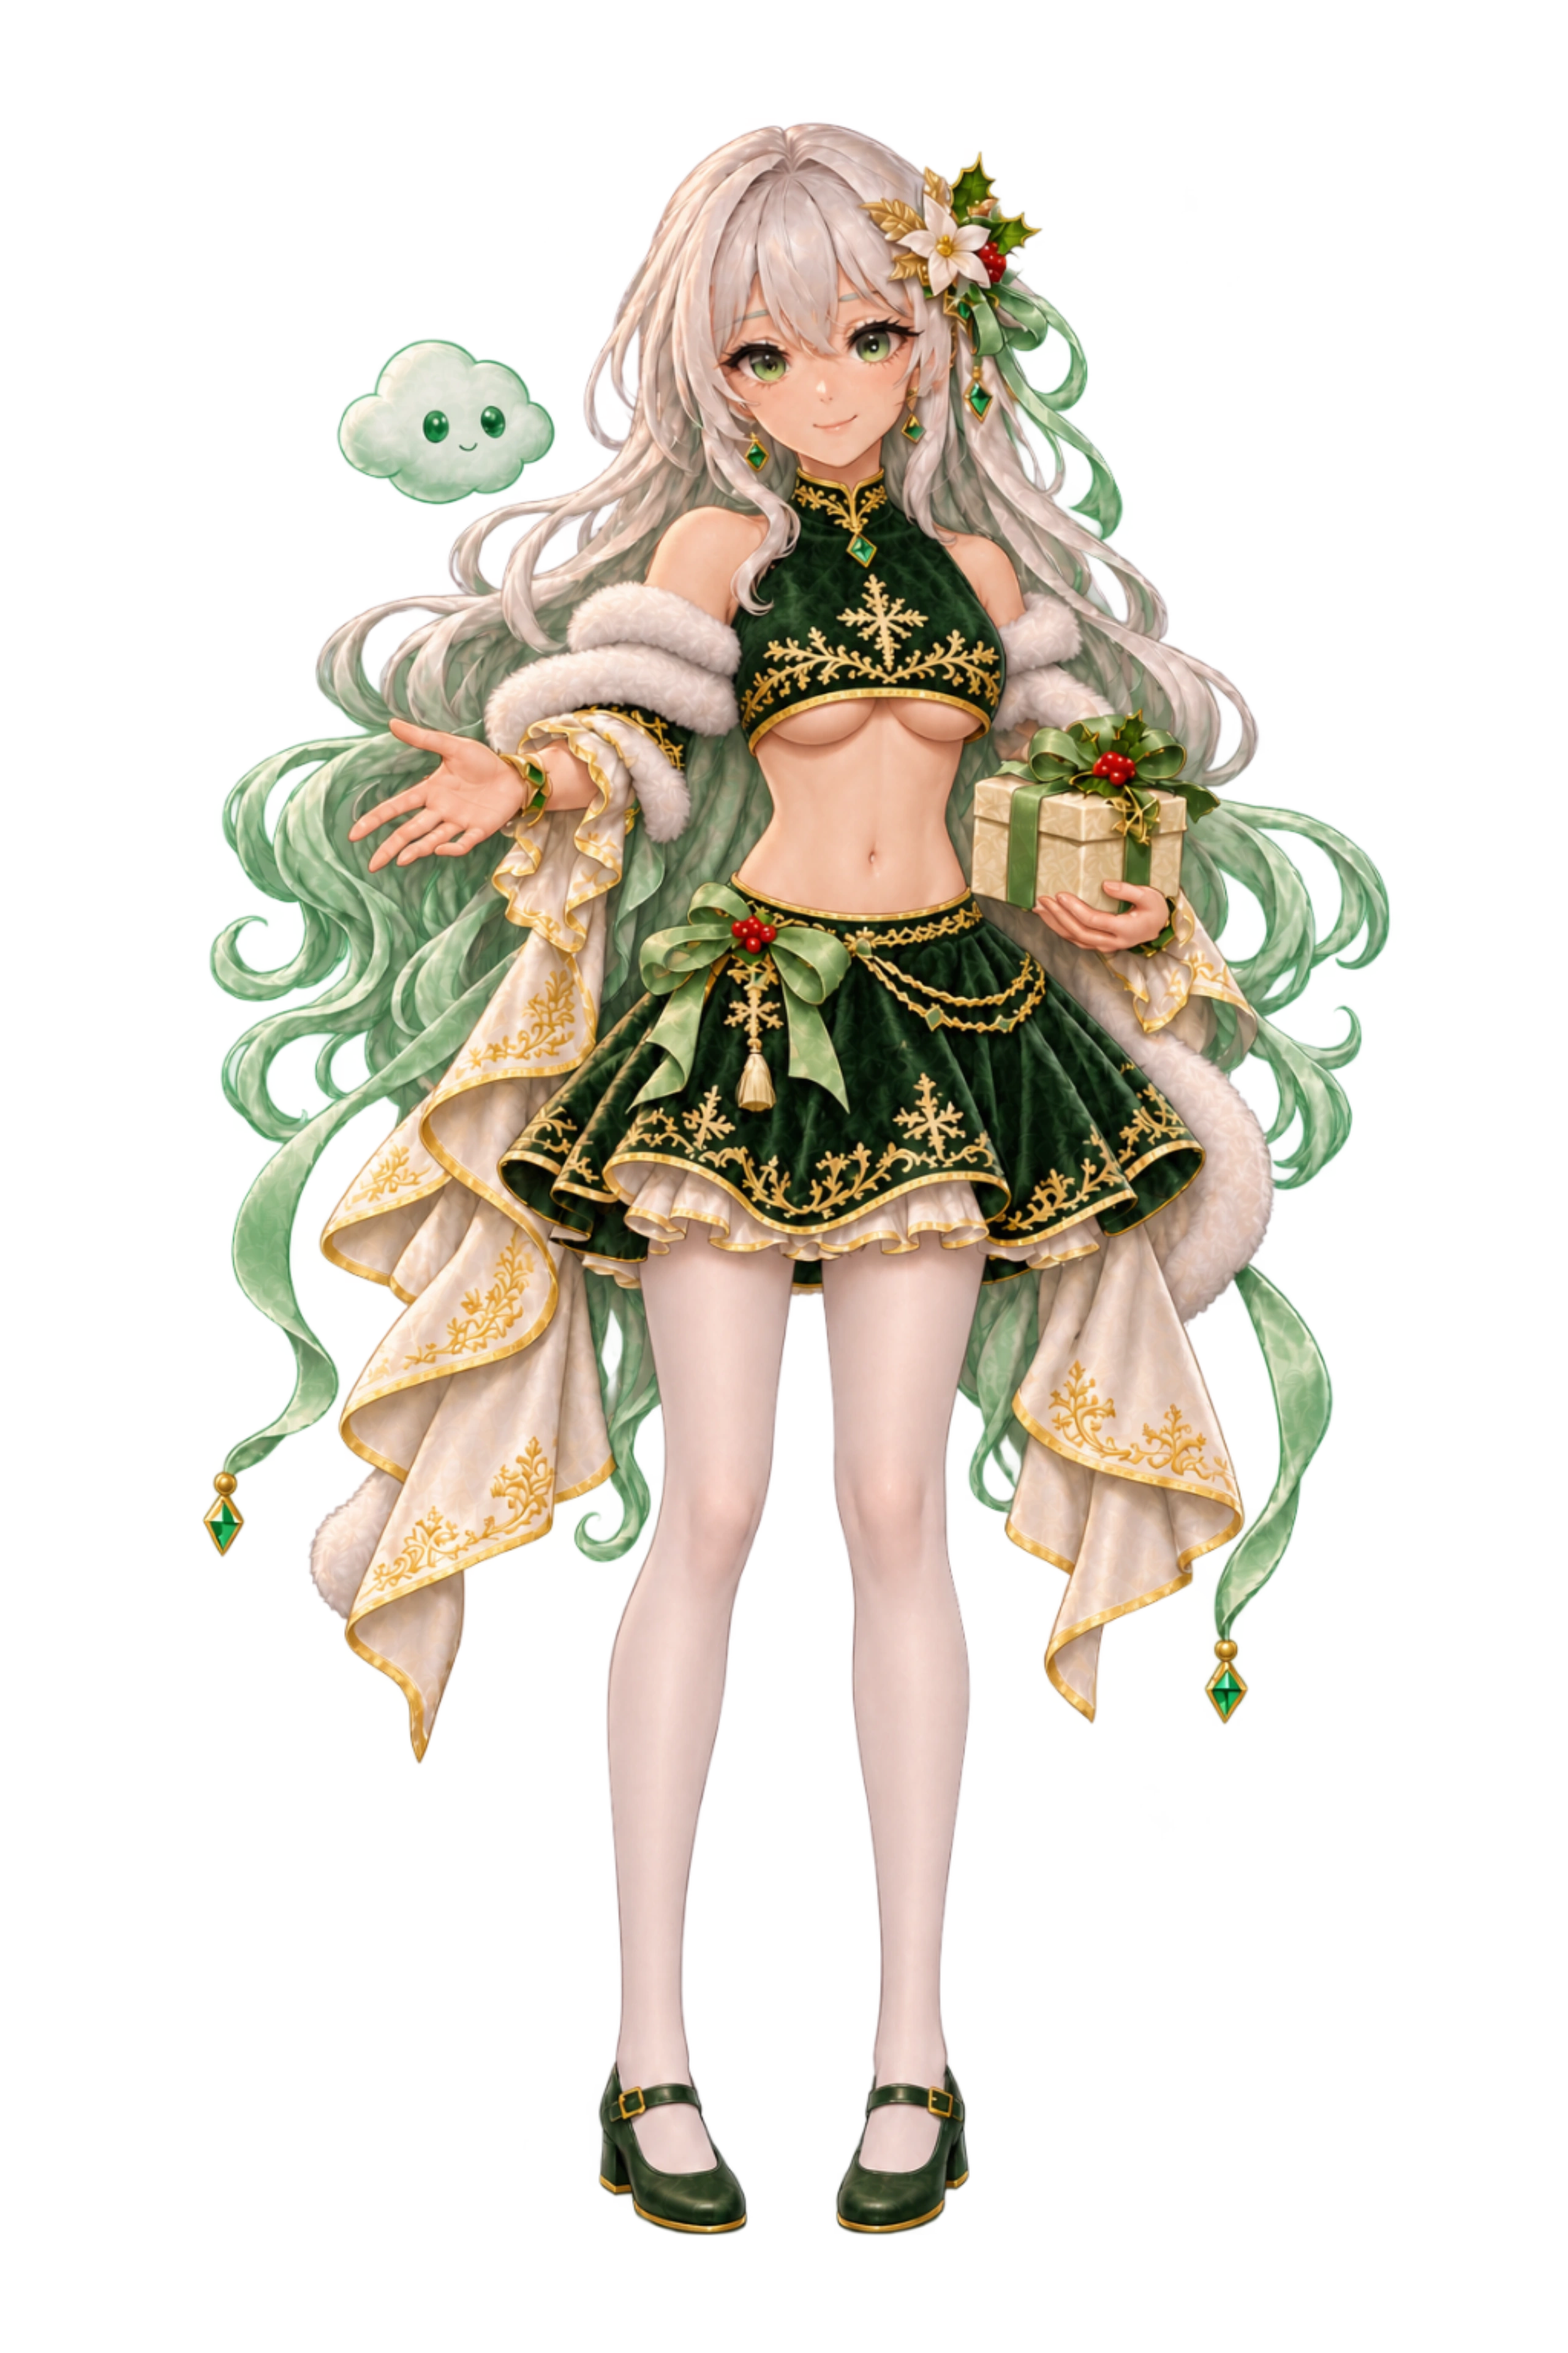
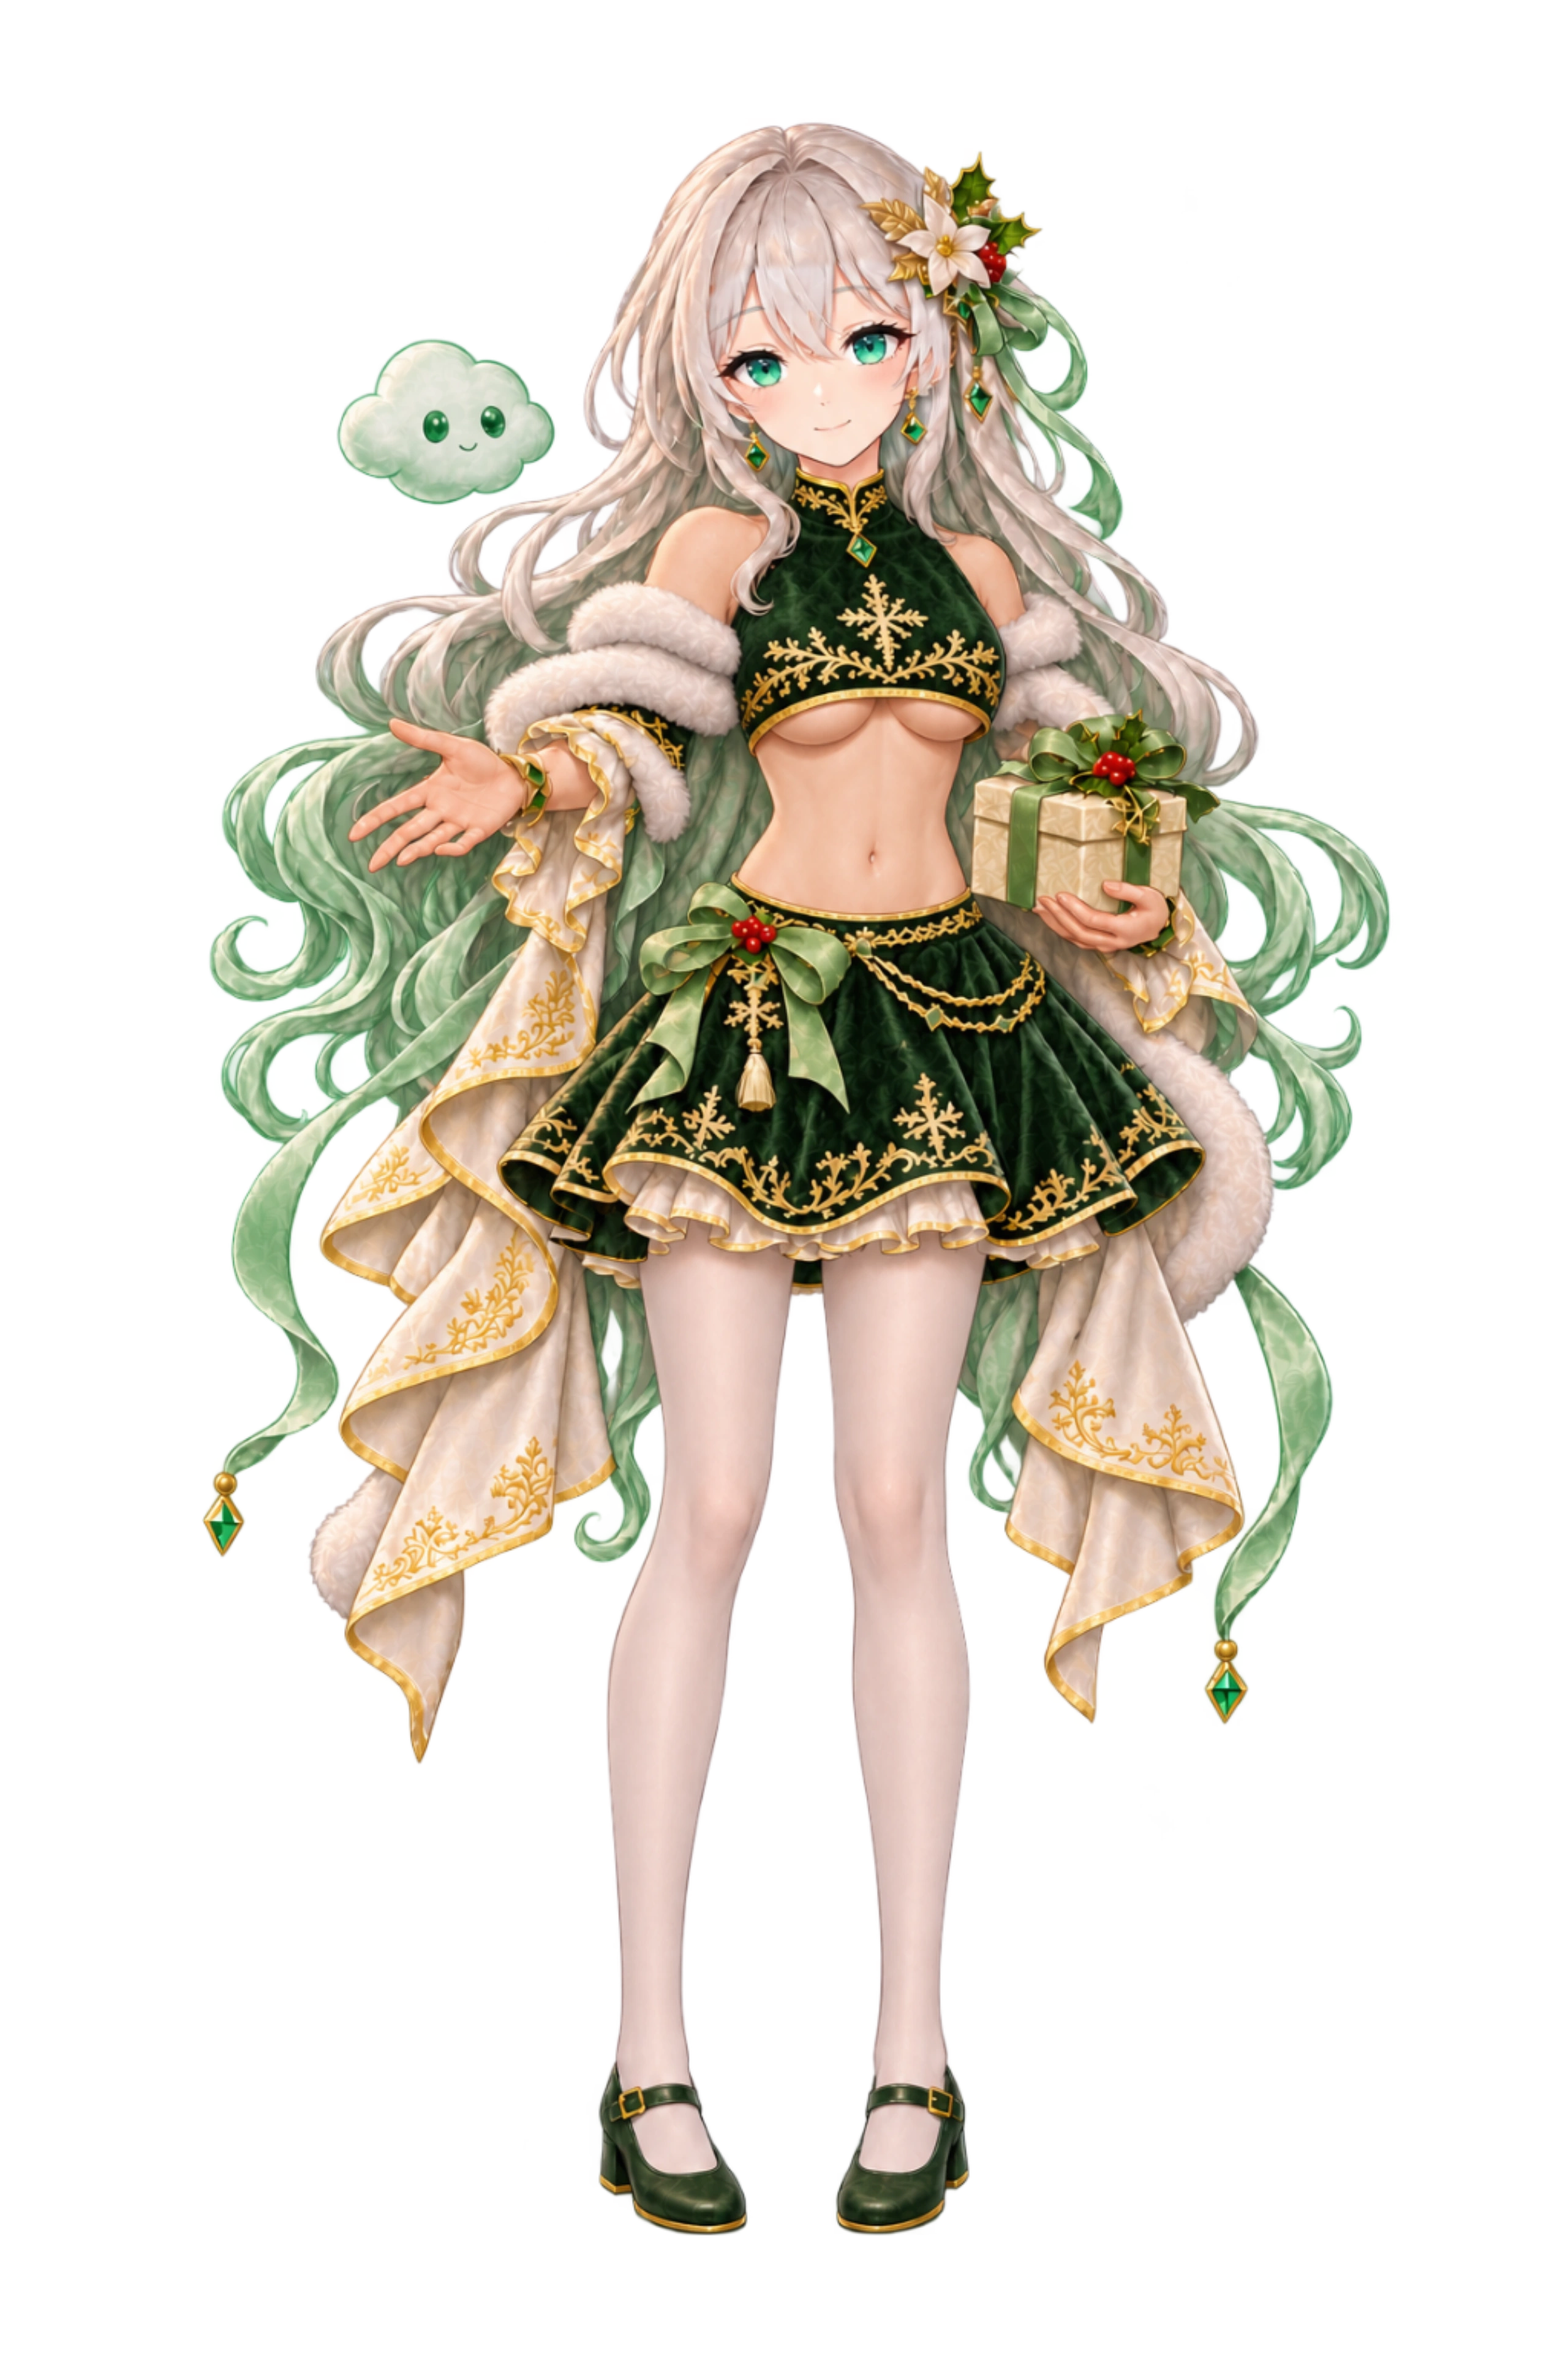
fix: align Christmas ChatGPT face and blinking with her established identity

Changed region(s): [[0.4375, 0.0938, 0.625, 0.2188]]

diff --git a/web/src/user/activities/gacha/christmas/eyelids.ts b/web/src/user/activities/gacha/christmas/eyelids.ts
@@ -55,40 +55,49 @@ function profile(
 export const christmasEyelids: Record<ChristmasCard, EyePair> = {
   't-chatgpt': [
     profile(
-      [462, 158, 524, 204],
+      [460, 161, 520, 203],
       [
-        [462, 177, 185, 179, 182, 186, 189, 0],
-        [469, 175, 191, 177, 185, 187, 191, 1],
-        [474, 169, 199, 171, 183, 184, 193, 1],
-        [479, 166, 201, 169, 179, 181, 194, 1],
-        [484, 162, 202, 164, 175, 182, 194, 1],
-        [489, 161, 202, 163, 174, 183, 193, 1],
-        [494, 161, 201, 163, 173, 182, 192, 1],
-        [499, 160, 200, 162, 173, 181, 190, 1],
-        [504, 162, 197, 164, 175, 180, 189, 1],
-        [509, 164, 194, 166, 179, 178, 187, 1],
-        [514, 167, 190, 169, 180, 179, 185, 1],
-        [519, 173, 187, 175, 180, 180, 183, 0.7],
-        [524, 177, 184, 179, 182, 180, 182, 0],
+        [460, 182, 190, 184, 187, 187, 189, 0],
+        [466, 181, 192, 184, 189, 187, 190, 0.8],
+        [470, 175, 195, 178, 187, 185, 190, 1],
+        [474, 170, 198, 173, 187, 183, 190, 1],
+        [478, 169, 200, 172, 181, 183, 190, 1],
+        [482, 166, 201, 169, 179, 182, 189, 1],
+        [486, 166, 201, 169, 178, 180, 188, 1],
+        [490, 165, 201, 168, 176, 179, 187, 1],
+        [494, 165, 200, 168, 176, 178, 185, 1],
+        [498, 165, 198, 168, 177, 177, 184, 1],
+        [502, 166, 195, 169, 179, 177, 183, 1],
+        [506, 168, 192, 171, 180, 177, 182, 1],
+        [510, 171, 188, 174, 179, 177, 181, 1],
+        [514, 176, 184, 178, 181, 178, 181, 0.7],
+        [520, 178, 183, 179, 181, 179, 181, 0],
       ],
+      false,
+      3,
     ),
     profile(
-      [553, 139, 615, 190],
+      [550, 140, 612, 188],
       [
-        [553, 159, 175, 162, 165, 171, 174, 0],
-        [560, 157, 181, 160, 165, 169, 176, 1],
-        [565, 152, 186, 154, 163, 168, 177, 1],
-        [570, 148, 188, 150, 160, 168, 177, 1],
-        [575, 146, 189, 148, 158, 167, 177, 1],
-        [580, 145, 188, 147, 157, 166, 176, 1],
-        [585, 144, 185, 146, 156, 164, 176, 1],
-        [590, 142, 182, 144, 156, 162, 174, 1],
-        [595, 144, 180, 147, 158, 159, 173, 1],
-        [600, 148, 177, 150, 164, 160, 171, 1],
-        [605, 151, 175, 154, 160, 160, 167, 1],
-        [610, 153, 172, 155, 158, 164, 168, 0.4],
-        [615, 155, 166, 157, 159, 164, 166, 0],
+        [550, 163, 175, 165, 168, 173, 176, 0],
+        [553, 160, 178, 162, 167, 172, 176, 0.7],
+        [557, 157, 182, 160, 166, 171, 176, 1],
+        [561, 153, 185, 156, 165, 169, 175, 1],
+        [565, 150, 186, 153, 163, 167, 174, 1],
+        [569, 148, 187, 151, 162, 166, 174, 1],
+        [573, 147, 187, 150, 161, 166, 173, 1],
+        [577, 146, 185, 149, 160, 165, 173, 1],
+        [581, 145, 184, 148, 160, 165, 173, 1],
+        [585, 147, 181, 150, 159, 165, 172, 1],
+        [589, 146, 179, 149, 158, 164, 172, 1],
+        [593, 149, 177, 152, 160, 163, 171, 1],
+        [597, 149, 174, 152, 164, 163, 169, 1],
+        [601, 153, 170, 156, 161, 161, 166, 1],
+        [605, 153, 165, 156, 160, 160, 163, 0.7],
+        [612, 155, 161, 156, 159, 158, 161, 0],
       ],
+      false,
+      2,
     ),
   ],
   't-claude': [
